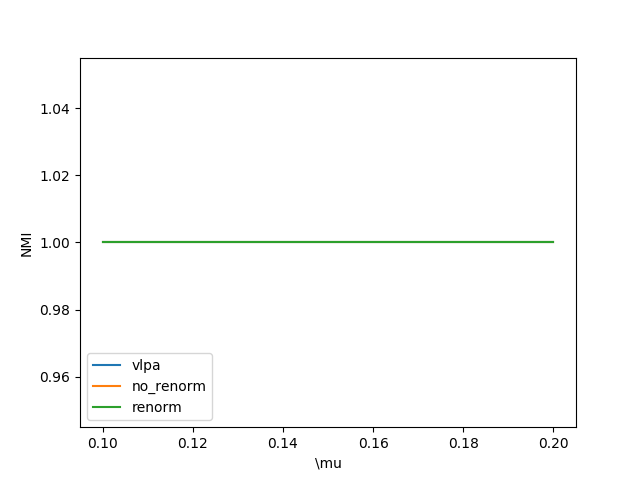
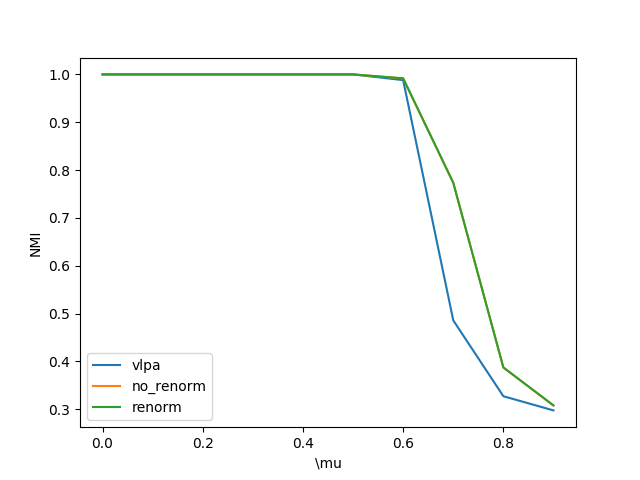
plot_remorm_modularity

diff --git a/main.py b/main.py
@@ -271,27 +271,35 @@ def louvain_compare_plot():
 
 
 def renorm_compare():
-    nmi_a = []
-    nmi_b = []
-    nmi_c = []
-    nmi_d = []
-    nmi_e = []
-    nmi_f = []
-    #x = [0.1,0.2]
-    x = [0.0, 0.1, 0.2, 0.3, 0.4, 0.5, 0.6, 0.7, 0.8,0.9]
+    mod_a = []
+    mod_b = []
+    mod_c = []
+    mod_d = []
+    mod_e = []
+    mod_f = []
+    mod_s = []
+    x = [0.1]
+    #x = [0.0, 0.1, 0.2, 0.3, 0.4, 0.5, 0.6, 0.7, 0.8,0.9]
     for num in x:
         g, real_label = inputdata.read_lfr(num)
 
         a = vlpa.vlpa(g)
-        b = vlpa.time_vlpa(g,if_renorm='False').labels
-        c = vlpa.time_vlpa(g,if_renorm='True').labels
+        b = vlpa.lpa(g)
+        c = vlpa.clustering_infomap(g)
+        d = vlpa.louvain(g).labels
+        e = vlpa.time_vlpa(g,if_renorm='False').labels
+        f = vlpa.time_vlpa(g,if_renorm='True').labels
         # f = vlpa.vlpa3(g)
-        nmi_a.append(nmi(real_label, a))
-        nmi_b.append(nmi(real_label, b))
-        nmi_c.append(nmi(real_label, c))
+        mod_a.append(community.modularity(a, g))
+        mod_b.append(community.modularity(b, g))
+        mod_c.append(community.modularity(c, g))
+        mod_d.append(community.modularity(d, g))
+        mod_e.append(community.modularity(e, g))
+        mod_f.append(community.modularity(f, g))
+        mod_s.append(community.modularity((real_label, g)))
         # nmi_f.append(nmi(real_label, f))
     # plot
-    compare_result = [x,nmi_a,nmi_b,nmi_c,]
+    compare_result = [x,mod_a,mod_b,mod_c,mod_d,mod_e,mod_f,mod_s]
     with open('renorm_compare.dat', 'wb') as f:
         pickle.dump(compare_result, f)
 
@@ -304,6 +312,8 @@ def renorm_compare_plot():
     plt.plot(result[0], result[2], label='no_renorm')
     plt.plot(result[0], result[3], label='renorm')
     # plt.plot(x, nmi_f, label='vlpa3')
+    print(result[2])
+    print(result[3])
     plt.legend(loc='lower left')
     plt.xlabel('\mu')
     plt.ylabel('NMI')
@@ -473,4 +483,4 @@ def louvian_test():
 #cProfile.run("timeit_profile()", filename="result.out")
 #louvain_compare()
 renorm_compare()
-renorm_compare_plot()
+

diff --git a/vlpa.py b/vlpa.py
@@ -245,8 +245,8 @@ def vlpa(g):
     m = float(len(g.edges()))
     pos = g.degree()
     k_ave = float(sum(g.degree().values())) / n
-    for step in xrange(50+60):
-        if step==50:
+    for step in xrange(80+10):
+        if step==80:
             pos={}.fromkeys(g.nodes(),1)
 
         vec_all = vecs.sum()
